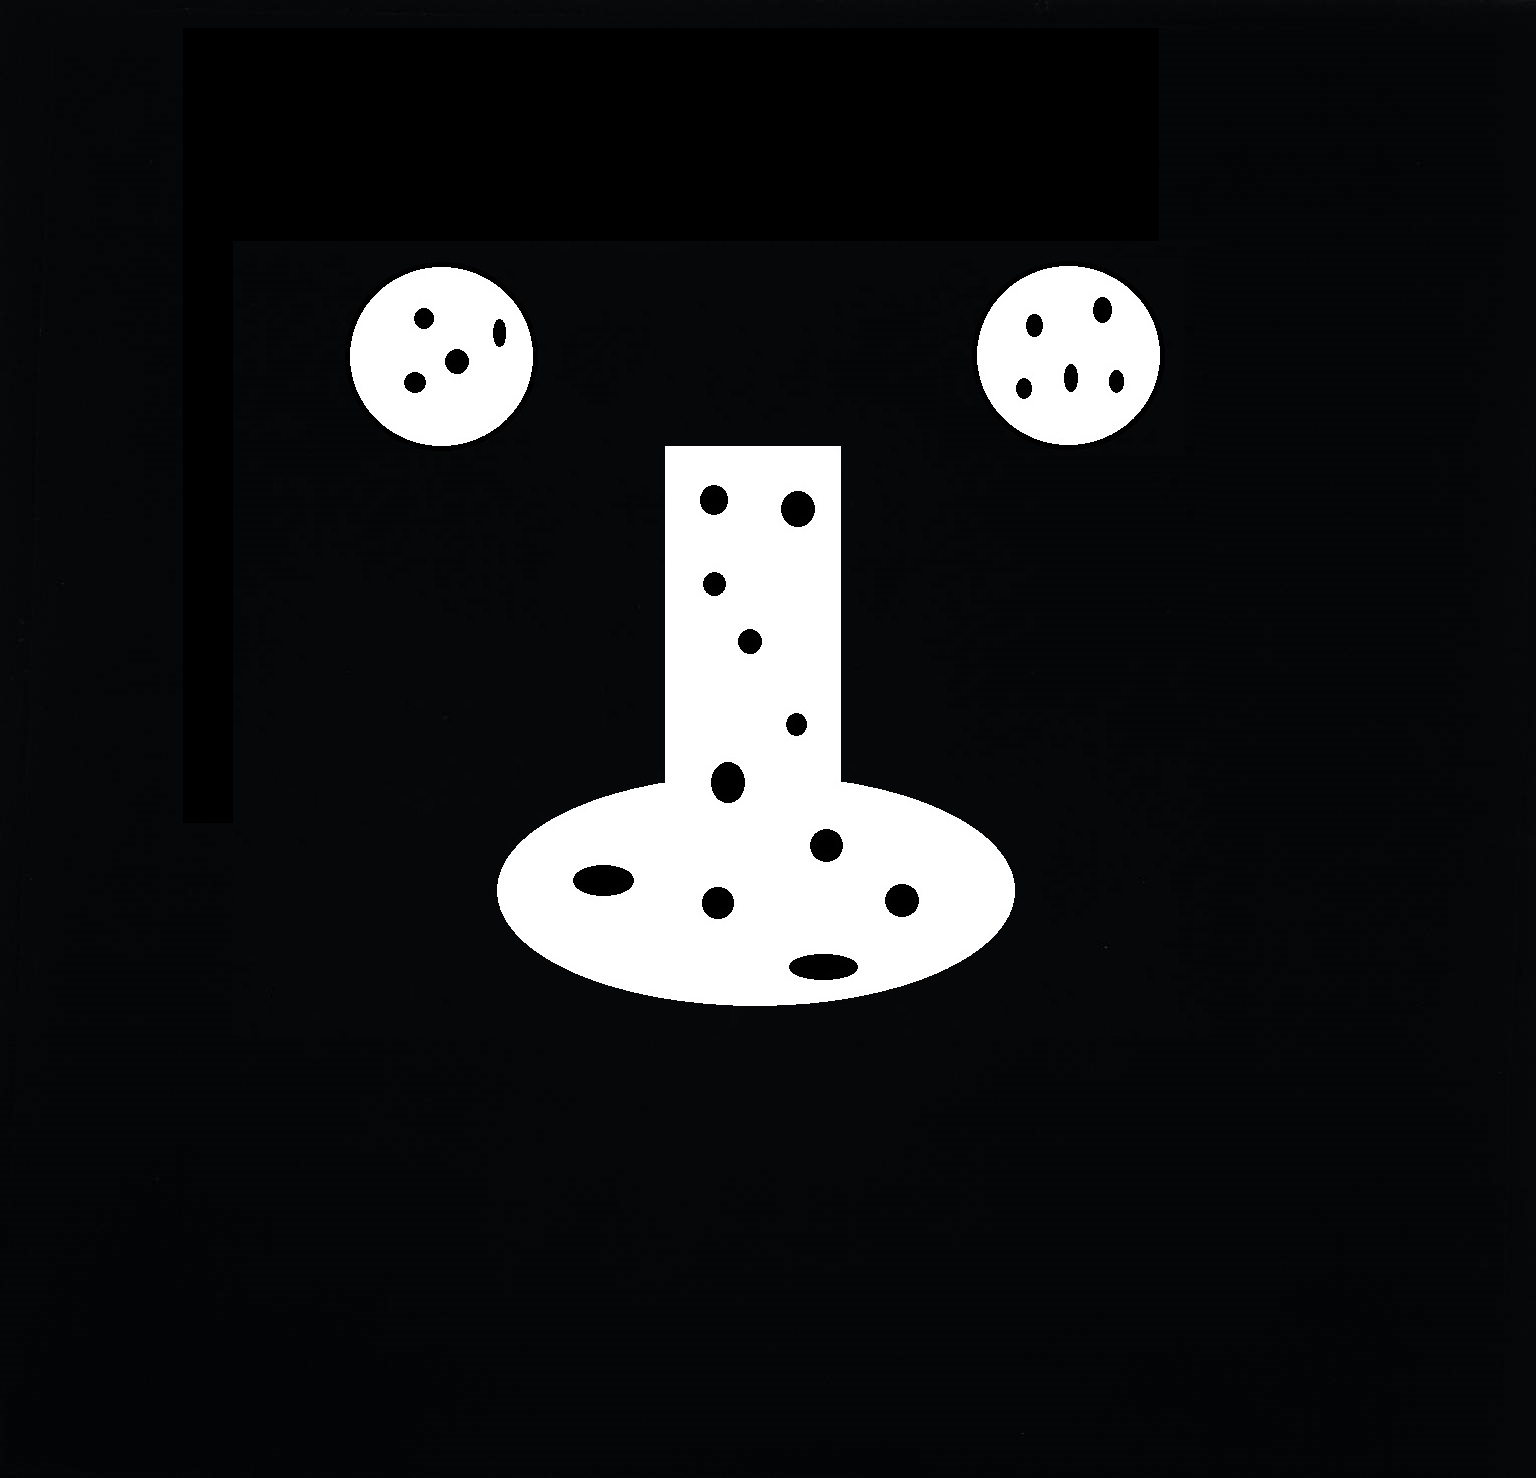
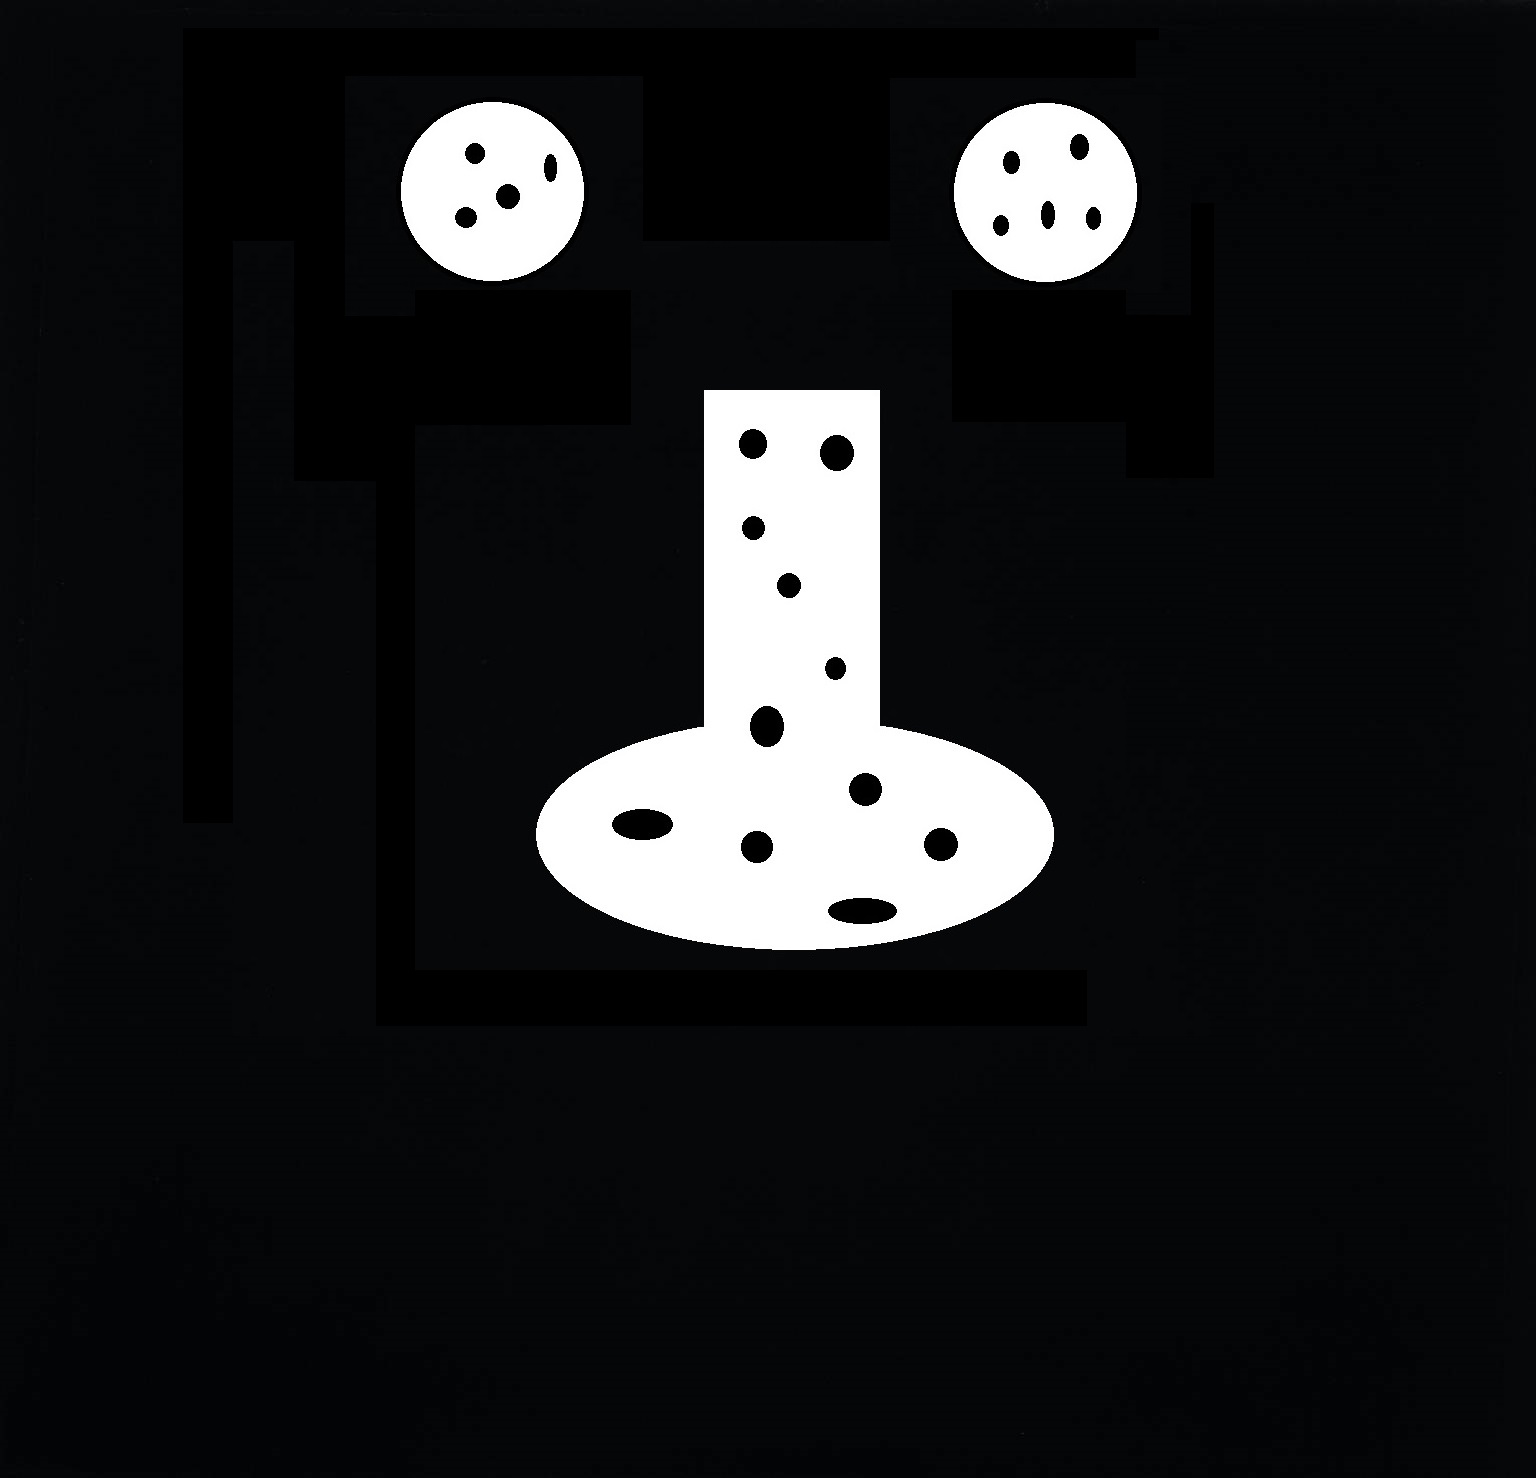
Complete With Two Examples

Changed region(s): [[0.3125, 0.249, 0.6875, 0.6847], [0.625, 0.0622, 0.7812, 0.3112], [0.2188, 0.0622, 0.4062, 0.3112]]

diff --git a/AutoHoleFilling.py b/AutoHoleFilling.py
@@ -7,17 +7,16 @@ Created on Wed Apr 17 10:24:55 2019
 
 import cv2
 import numpy as np
-import matplotlib.pyplot as plt
 
-def strucuringElement():
-    SE = np.ones((3,3))
+def SE(size):
+    SE = np.ones((size,size))
     return SE
 
 def formMarkerImg(image):
     iH = image.shape[0]
     iW = image.shape[1]
     
-    marker = np.zeros((iH, iW))
+    marker = np.zeros((iH, iW), dtype = 'uint8')
     
     for x in range(0, iH):
         for y in range(0, iW):
@@ -28,11 +27,33 @@ def formMarkerImg(image):
     
     return marker
 
-def formMask(image):
+def complementImg(image):
     image = cv2.bitwise_not(image)
     return image
 
-def MorphRecon():
+# n is number of iterations of dilating and anding
+def MorphRecon(marker, mask, SE, n):
+    for i in range(0, n):
+        dil = cv2.dilate(marker, SE, iterations = 1)
+        result = cv2.bitwise_and(dil, mask)
+        marker = result
     
-original = cv2.imread("DesignWithHoles.jpg") # read in image
-gray = cv2.cvtColor(original, cv2.COLOR_BGR2GRAY) # get grayscale of image
+    return result
+    
+original = cv2.imread("DesignWithHoles2.jpg") # read in image
+
+gray = cv2.cvtColor(original, cv2.COLOR_BGR2GRAY)
+
+markerImg = formMarkerImg(gray)
+
+mask = complementImg(gray)
+
+morphReconImg = MorphRecon(markerImg, mask, SE(3), 800)
+
+result = complementImg(morphReconImg)
+
+# show the output images
+cv2.imshow("original", gray) # Original grayscale image
+cv2.imshow("result", result)
+cv2.waitKey(0) # If you press enter
+cv2.destroyAllWindows() # Close all images being shown
